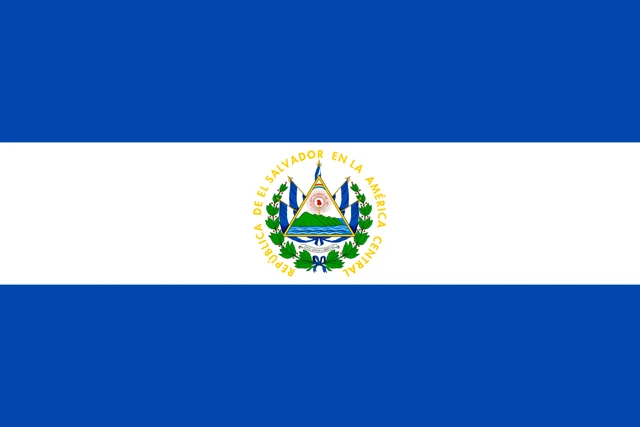
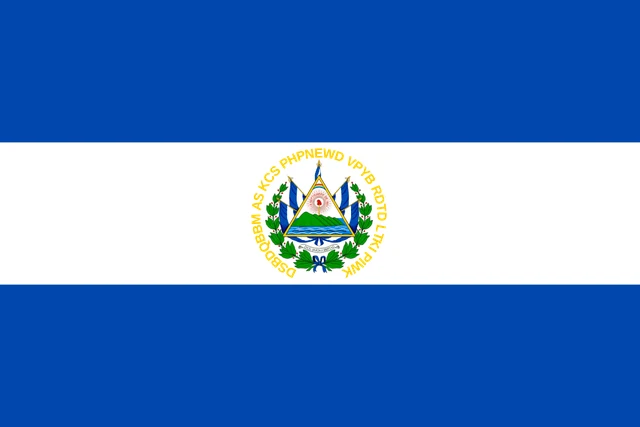
Replace hidden flag names with random letters

Changed region(s): [[0.375, 0.3349, 0.625, 0.6698]]

diff --git a/app/src/main/java/com/example/myapp/flashcards/Repository.kt b/app/src/main/java/com/example/myapp/flashcards/Repository.kt
@@ -272,7 +272,12 @@ class FlashcardRepository(private val context: Context) {
             5 to "flag-bo",
             5 to "flag-ga",
             6 to "flag-ni",
-            6 to "flag-py"
+            6 to "flag-py",
+            7 to "flag-sv",
+            7 to "flag-ni",
+            7 to "flag-py",
+            7 to "flag-yt",
+            7 to "flag-gu"
         )
         private const val SIX_MONTHS_MINUTES = 6 * 30 * 24 * 60
         private val builtinListIds = listOf(

diff --git a/src/generate_flags.py b/src/generate_flags.py
@@ -3,11 +3,13 @@ import hashlib
 import io
 import json
 import math
+import random
+import string
 import tempfile
 import urllib.request
 from pathlib import Path
 
-from PIL import Image, ImageDraw
+from PIL import Image, ImageDraw, ImageFont
 
 ASSETS = Path("app/src/main/assets")
 FLAGS_DIR = ASSETS / "flags"
@@ -35,17 +37,28 @@ RENAMES = {
 }
 # Territories flying their sovereign's flag would be the same card with two answers.
 SOVEREIGN_FIRST = ["fr", "no", "us", "au", "gb", "nl"]
-# Flags that print their own name, painted over (boxes in the w640 image, with the background they
-# sit on) so the card isn't given away. Guam's letters are split around the palm trunk.
+# Flags that print their own name, painted over and written again in random letters, so the card
+# isn't given away but the flag still looks like itself. Boxes in the w640 image (after reshape),
+# with the background they sit on, the ink and the letter height. Guam's letters are split around
+# the palm trunk.
 NAME_BOXES = {
-    "yt": [((145, 32, 495, 102), "white")],
-    "gu": [((283, 159, 314, 178), "#94dbfc"), ((323, 159, 358, 178), "#94dbfc")],
+    "yt": [((145, 32, 495, 102), "white", "#d42e12", 48)],
+    "gu": [
+        ((283, 159, 314, 182), "#94dbfc", "#bd0728", 12),
+        ((323, 159, 358, 182), "#94dbfc", "#bd0728", 12),
+    ],
 }
-# Same for names written around a seal: a ring (center, inner and outer radius) painted over.
+# Same for names written around a seal: center, inner and outer radius of the ring, background, ink,
+# letter height, and the arcs the text ran along (from and to angle, in degrees clockwise from
+# 3 o'clock; read clockwise the letters stand outward, read anticlockwise they stand inward).
 NAME_RINGS = {
-    "ni": ((320, 212), 54.5, 68, "white"),
-    "py": ((320.5, 175.5), 28.6, 36.4, "white"),
+    "ni": ((319.5, 213), 54.5, 67, "white", "#cfb022", 7, [(180, 375), (150, 35)]),
+    "py": ((319.5, 176), 28.6, 36.4, "white", "black", 5, [(145, 395)]),
+    "sv": ((319, 216), 57, 69, "white", "#ffc900", 9, [(112, 428)]),
 }
+FONT = "/usr/share/fonts/truetype/liberation/LiberationSans-Bold.ttf"
+# Drawn this many times bigger, then scaled down, so the small letters keep smooth edges.
+SUPERSAMPLE = 4
 # Look-alikes whose official proportions would give the answer away, all brought to 3:2 so only
 # their colors and emblems tell them apart. Indonesia and Monaco keep theirs: it is their only
 # difference.
@@ -98,21 +111,87 @@ def card(code, name):
     }
 
 
+def font_for(height):
+    """The font whose capitals stand [height] pixels tall, with that cap height."""
+    probe = ImageFont.truetype(FONT, 100)
+    top, bottom = probe.getbbox("H", anchor="ls")[1::2]
+    return ImageFont.truetype(FONT, round(100 * height / (bottom - top))), height
+
+
+def gibberish(rng, font, width, spaced):
+    """Random capitals filling [width], in words of a few letters when [spaced]."""
+    text, word = "", rng.randint(2, 8)
+    while True:
+        if spaced and word == 0:
+            char, word = " ", rng.randint(2, 8)
+        else:
+            char, word = rng.choice(string.ascii_uppercase), word - 1
+        if font.getlength(text + char) > width:
+            return text.strip()
+        text += char
+
+
+def write_on_arc(layer, rng, center, radius, arc, height, ink):
+    font, cap = font_for(height * SUPERSAMPLE)
+    start, end = arc
+    clockwise = end > start
+    text = gibberish(rng, font, math.radians(abs(end - start)) * radius * SUPERSAMPLE, spaced=True)
+    total = font.getlength(text)
+    middle = (start + end) / 2
+    side = 2 * font.size
+    for i, char in enumerate(text):
+        offset = font.getlength(text[:i]) + font.getlength(char) / 2 - total / 2
+        angle = middle + math.degrees(offset / (radius * SUPERSAMPLE)) * (1 if clockwise else -1)
+        glyph = Image.new("RGBA", (side, side))
+        ImageDraw.Draw(glyph).text((side / 2, side / 2 + cap / 2), char, font=font, fill=ink, anchor="ms")
+        glyph = glyph.rotate((270 if clockwise else 90) - angle, Image.BICUBIC)
+        x = SUPERSAMPLE * (center[0] + radius * math.cos(math.radians(angle)))
+        y = SUPERSAMPLE * (center[1] + radius * math.sin(math.radians(angle)))
+        layer.alpha_composite(glyph, (round(x - side / 2), round(y - side / 2)))
+
+
 def hide_name(image, code):
-    for box, fill in NAME_BOXES.get(code, []):
+    """Paints over the name a flag prints and writes random letters in its place."""
+    if code not in NAME_BOXES and code not in NAME_RINGS:
+        return image
+    rng = random.Random(code)
+    layer = Image.new("RGBA", (image.width * SUPERSAMPLE, image.height * SUPERSAMPLE))
+    for box, fill, ink, height in NAME_BOXES.get(code, []):
         ImageDraw.Draw(image).rectangle(box, fill=fill)
+        font, cap = font_for(height * SUPERSAMPLE)
+        text = gibberish(rng, font, 0.92 * (box[2] - box[0]) * SUPERSAMPLE, spaced=False)
+        middle = (SUPERSAMPLE * (box[0] + box[2]) / 2, SUPERSAMPLE * (box[1] + box[3]) / 2 + cap / 2)
+        ImageDraw.Draw(layer).text(middle, text, font=font, fill=ink, anchor="ms")
     if code in NAME_RINGS:
-        (cx, cy), inner, outer, fill = NAME_RINGS[code]
-        scale = 4
-        mask = Image.new("L", (image.width * scale, image.height * scale), 0)
+        (cx, cy), inner, outer, fill, ink, height, arcs = NAME_RINGS[code]
+        mask = Image.new("L", layer.size, 0)
         draw = ImageDraw.Draw(mask)
-        for radius, value in [(outer, 255), (inner, 0)]:
-            draw.ellipse(
-                [scale * (cx - radius), scale * (cy - radius), scale * (cx + radius), scale * (cy + radius)],
-                fill=value,
+        for start, end in arcs:
+            low, high = min(start, end) - 4, max(start, end) + 4
+            draw.pieslice(
+                [
+                    SUPERSAMPLE * (cx - outer),
+                    SUPERSAMPLE * (cy - outer),
+                    SUPERSAMPLE * (cx + outer),
+                    SUPERSAMPLE * (cy + outer),
+                ],
+                low,
+                high,
+                fill=255,
             )
+        draw.ellipse(
+            [
+                SUPERSAMPLE * (cx - inner),
+                SUPERSAMPLE * (cy - inner),
+                SUPERSAMPLE * (cx + inner),
+                SUPERSAMPLE * (cy + inner),
+            ],
+            fill=0,
+        )
         image.paste(fill, (0, 0, image.width, image.height), mask.resize(image.size, Image.LANCZOS))
-    return image
+        for arc in arcs:
+            write_on_arc(layer, rng, (cx, cy), (inner + outer) / 2, arc, height, ink)
+    return Image.alpha_composite(image, layer.resize(image.size, Image.LANCZOS))
 
 
 def plain_lines(image, axis):
